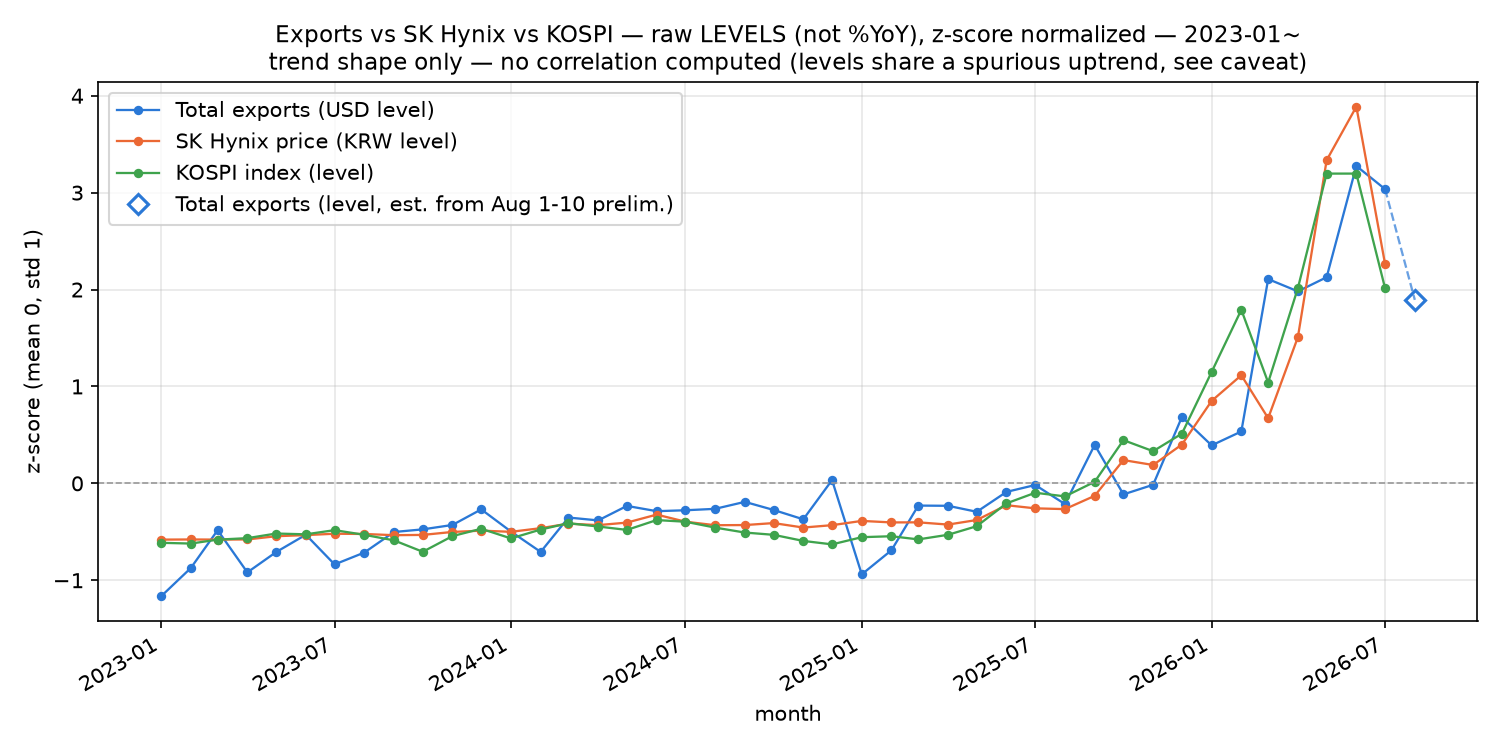
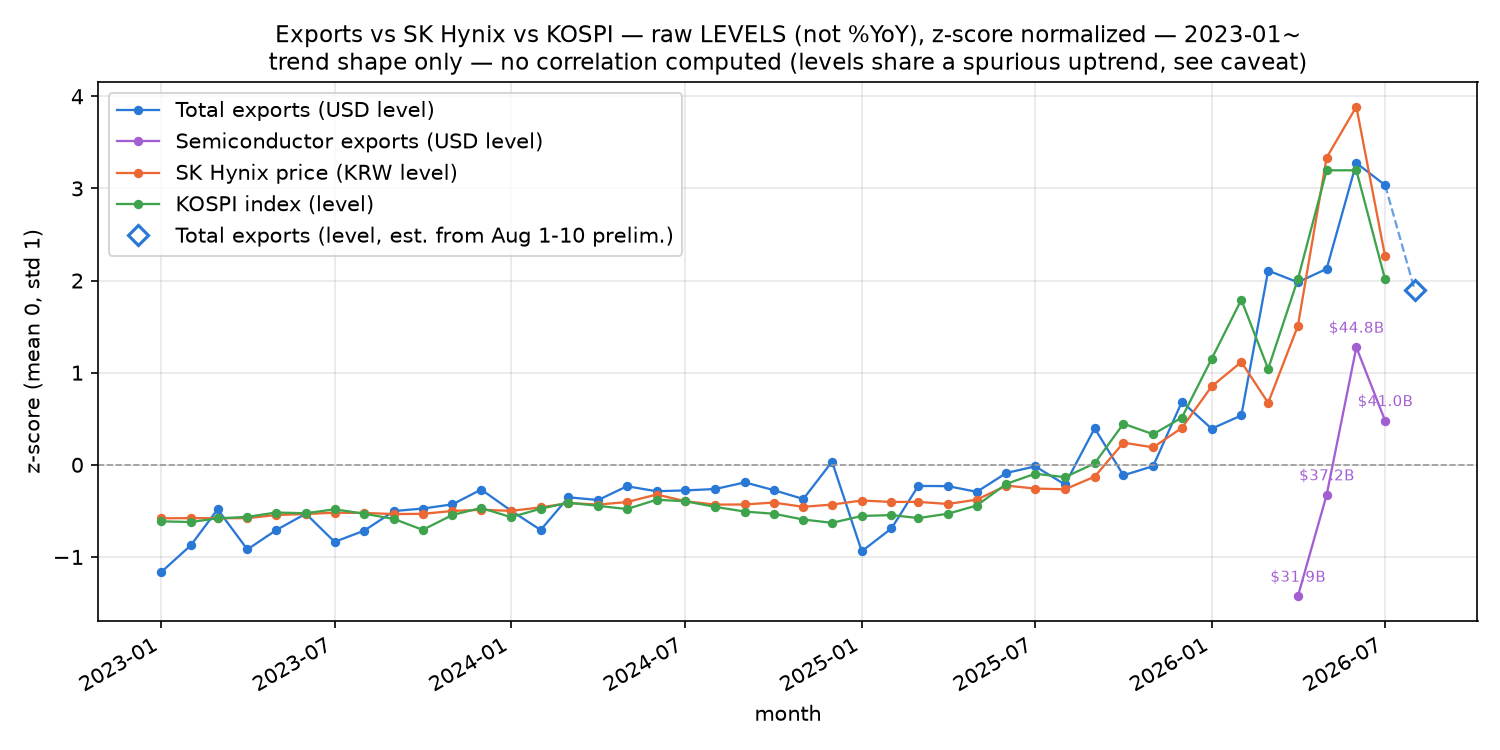
feat: 반도체수출 레벨(달러)을 레벨 트렌드 차트에 추가
사용자 요청 — "이 그래프가 보기에 좋은데, YoY를 거꾸로 역산해서 RAW
level로 그려줄 수 있어?"

실제로는 %YoY를 역산할 필요가 없었다 — data/manual_inputs/exports.yaml의
semiconductor_exports_yoy 각 행 주석에 이미 산업통상부가 같은 보도자료에서
함께 발표한 실측 달러 금액이 적혀 있었다(319.0/371.6/448.2/410.1억 달러,
2026-04~07). %YoY를 거꾸로 계산해 근사치를 만드는 대신 이 실측 금액을
그대로 구조화된 필드(semiconductor_exports_usd_100m)로 승격했다 — 반올림된
%YoY로 역산하는 것보다 정확하고, 애초에 진짜 "역산"이 가능하려면 전년
동월 반도체수출 레벨이 있어야 하는데 그 자동 수집 경로가 없다(관세청 API는
총계만 제공, 품목별 API는 미신청).

- _load_semi_exports_level(): exports.yaml에서 억 달러 단위를 읽어 ×1e8로
  total_exports_usd와 같은 raw USD 단위로 맞춤
- build_levels_dataset()에 semi_exports_usd 컬럼 추가, LEVELS_SERIES_LABELS
  /LEVELS_CHART_COLORS도 갱신(보라색 — %YoY 차트의 semi_exports_yoy와 동일
  색상 유지)
- 8월(진행 중인 달) 추정 레벨은 일부러 안 찍었다 — 전년 동월 반도체수출
  레벨 이력이 없어 총수출과 같은 역산 방식(전년 동월×(1+YoY%))을 쓸 근거가
  없고, 반도체는 월말 클리어런스 쏠림이 잦아 상반월 비중 투영이 특히
  왜곡될 위험이 큼(markdown에 근거 명시)
- 표본 4개월(n<6)이라 semi_exports_yoy 차트에서 이미 고친 것과 같은
  z-score 착시를 반복하지 않도록, 각 점 위에 실제 금액($XX.XB, ASCII)을
  라벨로 표기 — 처음엔 "억"(한글)로 썼다가 DejaVu Sans 글리프 누락 경고를
  보고 즉시 ASCII로 수정(이 모듈 전체의 기존 관례)

신규 테스트 2개: _load_semi_exports_level의 단위 변환 검증,
build_levels_dataset 컬럼 목록 갱신(반영 안 하면 실패하던 기존 테스트
1개도 함께 수정).

55/55 tests passing.

diff --git a/scripts/correlation_analysis.py b/scripts/correlation_analysis.py
@@ -146,6 +146,7 @@ DAILY_PRICE_CSV = REPO_ROOT / "sources" / "daily-price-history.csv"
 EXPORTS_ANNUAL_YAML = MANUAL_INPUTS / "exports_annual.yaml"
 KOSPI_ANNUAL_YAML = MANUAL_INPUTS / "kospi_annual.yaml"
 EXPORTS_PRELIMINARY_YAML = MANUAL_INPUTS / "exports_preliminary.yaml"
+EXPORTS_YAML = MANUAL_INPUTS / "exports.yaml"
 OUT_DIR = REPO_ROOT / "monitoring"
 OUT_MD = OUT_DIR / "exports-price-correlation.md"
 OUT_PNG = OUT_DIR / "exports-price-correlation.png"
@@ -178,11 +179,13 @@ OUT_PNG_LEVELS_ZOOM = OUT_DIR / "exports-price-levels-trend-2023-zoom.png"
 # 정규화 — %YoY로 바꾸지 않은 채 그냥 스케일만 맞춘다.
 LEVELS_SERIES_LABELS = {
     "total_exports_usd": "총수출 (달러, 레벨)",
+    "semi_exports_usd": "반도체수출 (달러, 레벨)",
     "hynix_price_krw": "SK하이닉스 주가 (원, 레벨)",
     "kospi_index": "코스피 지수 (포인트, 레벨)",
 }
 LEVELS_SERIES_LABELS_CHART = {
     "total_exports_usd": "Total exports (USD level)",
+    "semi_exports_usd": "Semiconductor exports (USD level)",
     "hynix_price_krw": "SK Hynix price (KRW level)",
     "kospi_index": "KOSPI index (level)",
 }
@@ -568,9 +571,20 @@ def build_daily_focus_dataset(display_days: int = DAILY_FOCUS_DISPLAY_DAYS) -> p
 # %YoY가 아니라 원 단위(달러/원/포인트) 그대로 겹쳐서 추세의 '모양'만 본다.
 # 상관계수는 절대 안 낸다 — 모듈 docstring "WHY YoY, NOT LEVELS" 참고.
 
+def _load_semi_exports_level() -> pd.Series:
+    """반도체 수출 금액(달러, 레벨) — data/manual_inputs/exports.yaml의
+    semiconductor_exports_usd_100m(억 달러)을 그대로 옮긴 것, %YoY를 역산한
+    값이 아니다(2026-08-17 사용자 요청 배경은 exports.yaml 주석 참고).
+    총수출 레벨(_load_customs_export_level)과 달리 자동 수집 경로가 없어
+    2026-04~뿐이고(n=4), _drop_current_incomplete_month() 대상도 아니다 —
+    애초에 진행 중인 달(8월) 실측값 자체가 이 파일에 없다."""
+    return _load_manual_yaml_series(EXPORTS_YAML, "semiconductor_exports_usd_100m") * 1e8
+
+
 def build_levels_dataset() -> pd.DataFrame:
     series = {
         "total_exports_usd": _load_customs_export_level(),
+        "semi_exports_usd": _load_semi_exports_level(),
         "hynix_price_krw": _load_price_level("000660"),
         "kospi_index": _load_price_level("0001"),
     }
@@ -579,7 +593,12 @@ def build_levels_dataset() -> pd.DataFrame:
     return df
 
 
-LEVELS_CHART_COLORS = {"total_exports_usd": "#2a78d6", "hynix_price_krw": "#eb6834", "kospi_index": "#3fa34d"}
+LEVELS_CHART_COLORS = {
+    "total_exports_usd": "#2a78d6",
+    "semi_exports_usd": "#a35fd1",  # %YoY 차트의 semi_exports_yoy와 같은 색 — 지표 색 일관성 유지
+    "hynix_price_krw": "#eb6834",
+    "kospi_index": "#3fa34d",
+}
 
 
 def _render_levels_chart(df: pd.DataFrame, out_path: Path, start: pd.Timestamp | None = None,
@@ -596,7 +615,13 @@ def _render_levels_chart(df: pd.DataFrame, out_path: Path, start: pd.Timestamp |
     preliminary_level: _estimate_preliminary_export_level()의 반환값 —
     total_exports_usd 실측 마지막 점에서 점선으로 이어지는 속이 빈
     마름모로, %YoY 차트의 잠정치 표시와 같은 스타일(2026-08-17 사용자
-    요청: "10일 잠정치에 대한 예상치도 같이 추가해줘")."""
+    요청: "10일 잠정치에 대한 예상치도 같이 추가해줘").
+
+    표본이 작은 지표(n < MIN_TRUSTWORTHY_N, 지금은 semi_exports_usd가
+    n=4)는 각 점 위에 실제 금액(억 달러)을 숫자로 함께 적는다 —
+    exports-price-correlation.md의 semi_exports_yoy 차트에서 이미 겪은
+    같은 종류의 z-score 착시(사용자 지적, 2026-08-17: "왜 이렇게 뚝
+    떨어지지?")를 반도체수출 레벨 차트에서도 반복하지 않기 위해서다."""
     cols = [c for c in LEVELS_SERIES_LABELS if c in df.columns and df[c].notna().any()]
     plot_df = df[cols].dropna(how="all")
     if start is not None:
@@ -617,6 +642,13 @@ def _render_levels_chart(df: pd.DataFrame, out_path: Path, start: pd.Timestamp |
                 label=LEVELS_SERIES_LABELS_CHART[c], **marker_kwargs)
         if c == "total_exports_usd":
             exports_stats = (mean, std, z.index[-1], z.values[-1])
+        if len(series) < MIN_TRUSTWORTHY_N:
+            for date, raw_val, zval in zip(series.index, series.values, z.values):
+                # ASCII만 — DejaVu Sans엔 한글 글리프가 없다(모듈 전체 관례,
+                # SERIES_LABELS_CHART 등과 같은 이유). "억" 대신 "$X.XB".
+                ax.annotate(f"${raw_val / 1e9:,.1f}B", (date, zval), textcoords="offset points",
+                            xytext=(0, 7), fontsize=7, ha="center",
+                            color=LEVELS_CHART_COLORS.get(c, "#888888"))
 
     if preliminary_level is not None and exports_stats is not None:
         mean, std, last_date, last_z = exports_stats
@@ -693,11 +725,25 @@ def render_levels_markdown(df: pd.DataFrame, preliminary_level: dict | None = No
             v = row[c]
             if pd.isna(v):
                 cells.append("—")
-            elif c == "total_exports_usd":
+            elif c in ("total_exports_usd", "semi_exports_usd"):
                 cells.append(f"{v / 1e8:,.0f}억")
             else:
                 cells.append(f"{v:,.1f}")
         lines.append(f"| {month.strftime('%Y-%m')} | " + " | ".join(cells) + " |")
+
+    if "semi_exports_usd" in df.columns and df["semi_exports_usd"].notna().any():
+        lines += [
+            "",
+            "**반도체수출(달러) 출처 참고**: 자동 수집 경로가 없다(관세청 API는 "
+            "총계만 주고, 품목별 API는 아직 미신청) — data/manual_inputs/exports.yaml에 "
+            "산업통상부 월간 보도자료 실측 금액을 직접 옮겨뒀다(2026-04~뿐, n=4). "
+            "%YoY를 거꾸로 계산해 만든 근사치가 아니라 원래 발표된 금액 그대로다. "
+            "8월(진행 중인 달)은 이 파일에 실측 월간 금액이 아직 없어 레벨 추정치를 "
+            "찍지 않았다 — 총수출과 달리 전년 동월 반도체수출 레벨 이력이 없어 "
+            "같은 방식(전년 동월×(1+YoY%))으로 역산할 근거가 없고, 반도체는 대형 "
+            "계약 클리어런스가 월말에 몰리는 경우가 많아 상반월 비중만으로 "
+            "함부로 월 전체를 투영하면 특히 왜곡될 수 있다.",
+        ]
 
     if preliminary_level is not None:
         lines += [

diff --git a/tests/test_exposure_reconciliation.py b/tests/test_exposure_reconciliation.py
@@ -1139,16 +1139,35 @@ def test_build_levels_dataset_assembles_the_three_raw_level_columns():
     """2026-08-17 user request: '절대 수치(레벨)로 트렌드를 코스피와 비교'.
     build_levels_dataset() must reuse the already-tested level loaders
     (_load_customs_export_level / _load_price_level) unmodified and just
-    assemble them into one frame — no %YoY transform, no new fetching."""
+    assemble them into one frame — no %YoY transform, no new fetching.
+
+    semi_exports_usd was added later the same day ('YoY를 거꾸로 역산해서
+    RAW level로 그려줄 수 있어?' — turned out to be real published $ amounts
+    already sitting in exports.yaml comments, not an actual YoY reversal)."""
     import scripts.correlation_analysis as mod
 
     df = mod.build_levels_dataset()
     assert list(df.columns) == [
-        "total_exports_usd", "hynix_price_krw", "kospi_index",
+        "total_exports_usd", "semi_exports_usd", "hynix_price_krw", "kospi_index",
     ]
     # real collected data should give at least some non-null history in each column
     assert df["total_exports_usd"].notna().any()
     assert df["kospi_index"].notna().any()
+
+
+def test_load_semi_exports_level_converts_100m_usd_units_to_raw_usd():
+    """2026-08-17 user request: '반도체수출 raw level'. exports.yaml stores
+    semiconductor_exports_usd_100m in 억 달러 (hundred-million-dollar) units
+    — the loader must scale by 1e8 so it's directly comparable (same raw-USD
+    units) to total_exports_usd from _load_customs_export_level()."""
+    import pandas as pd
+    import scripts.correlation_analysis as mod
+
+    series = mod._load_semi_exports_level()
+    assert not series.empty
+    # 2026-04 real published figure is 319.0억 달러 = $31.9B
+    val = series.loc[pd.Timestamp("2026-04-01")]
+    assert abs(val - 319.0 * 1e8) < 1e-6
 
 
 def test_estimate_preliminary_export_level_scales_prior_year_by_the_prelim_yoy():

diff --git a/monitoring/exports-price-levels-trend.md b/monitoring/exports-price-levels-trend.md
@@ -12,32 +12,34 @@
 
 ## 표본 데이터 (최근 24개월)
 
-| 월 | 총수출 (달러, 레벨) | SK하이닉스 주가 (원, 레벨) | 코스피 지수 (포인트, 레벨) |
-|---|---|---|---|
-| 2024-08 | 576억 | 173,700.0 | 2,674.3 |
-| 2024-09 | 585억 | 174,600.0 | 2,593.3 |
-| 2024-10 | 575억 | 186,300.0 | 2,556.2 |
-| 2024-11 | 563억 | 159,900.0 | 2,455.9 |
-| 2024-12 | 614억 | 173,900.0 | 2,399.5 |
-| 2025-01 | 492억 | 199,200.0 | 2,517.4 |
-| 2025-02 | 523억 | 190,200.0 | 2,532.8 |
-| 2025-03 | 581억 | 190,700.0 | 2,481.1 |
-| 2025-04 | 580억 | 177,500.0 | 2,556.6 |
-| 2025-05 | 573억 | 204,500.0 | 2,697.7 |
-| 2025-06 | 598억 | 292,000.0 | 3,071.7 |
-| 2025-07 | 607억 | 273,500.0 | 3,245.4 |
-| 2025-08 | 583억 | 269,000.0 | 3,186.0 |
-| 2025-09 | 659억 | 347,500.0 | 3,424.6 |
-| 2025-10 | 595억 | 559,000.0 | 4,107.5 |
-| 2025-11 | 608억 | 530,000.0 | 3,926.6 |
-| 2025-12 | 695억 | 651,000.0 | 4,214.2 |
-| 2026-01 | 658억 | 909,000.0 | 5,224.4 |
-| 2026-02 | 676억 | 1,061,000.0 | 6,244.1 |
-| 2026-03 | 873억 | 807,000.0 | 5,052.5 |
-| 2026-04 | 858억 | 1,286,000.0 | 6,598.9 |
-| 2026-05 | 876억 | 2,333,000.0 | 8,476.1 |
-| 2026-06 | 1,020억 | 2,650,000.0 | 8,476.5 |
-| 2026-07 | 990억 | 1,718,000.0 | 6,595.4 |
+| 월 | 총수출 (달러, 레벨) | 반도체수출 (달러, 레벨) | SK하이닉스 주가 (원, 레벨) | 코스피 지수 (포인트, 레벨) |
+|---|---|---|---|---|
+| 2024-08 | 576억 | — | 173,700.0 | 2,674.3 |
+| 2024-09 | 585억 | — | 174,600.0 | 2,593.3 |
+| 2024-10 | 575억 | — | 186,300.0 | 2,556.2 |
+| 2024-11 | 563억 | — | 159,900.0 | 2,455.9 |
+| 2024-12 | 614억 | — | 173,900.0 | 2,399.5 |
+| 2025-01 | 492억 | — | 199,200.0 | 2,517.4 |
+| 2025-02 | 523억 | — | 190,200.0 | 2,532.8 |
+| 2025-03 | 581억 | — | 190,700.0 | 2,481.1 |
+| 2025-04 | 580억 | — | 177,500.0 | 2,556.6 |
+| 2025-05 | 573억 | — | 204,500.0 | 2,697.7 |
+| 2025-06 | 598억 | — | 292,000.0 | 3,071.7 |
+| 2025-07 | 607억 | — | 273,500.0 | 3,245.4 |
+| 2025-08 | 583억 | — | 269,000.0 | 3,186.0 |
+| 2025-09 | 659억 | — | 347,500.0 | 3,424.6 |
+| 2025-10 | 595억 | — | 559,000.0 | 4,107.5 |
+| 2025-11 | 608억 | — | 530,000.0 | 3,926.6 |
+| 2025-12 | 695억 | — | 651,000.0 | 4,214.2 |
+| 2026-01 | 658억 | — | 909,000.0 | 5,224.4 |
+| 2026-02 | 676억 | — | 1,061,000.0 | 6,244.1 |
+| 2026-03 | 873억 | — | 807,000.0 | 5,052.5 |
+| 2026-04 | 858억 | 319억 | 1,286,000.0 | 6,598.9 |
+| 2026-05 | 876억 | 372억 | 2,333,000.0 | 8,476.1 |
+| 2026-06 | 1,020억 | 448억 | 2,650,000.0 | 8,476.5 |
+| 2026-07 | 990억 | 410억 | 1,718,000.0 | 6,595.4 |
+
+**반도체수출(달러) 출처 참고**: 자동 수집 경로가 없다(관세청 API는 총계만 주고, 품목별 API는 아직 미신청) — data/manual_inputs/exports.yaml에 산업통상부 월간 보도자료 실측 금액을 직접 옮겨뒀다(2026-04~뿐, n=4). %YoY를 거꾸로 계산해 만든 근사치가 아니라 원래 발표된 금액 그대로다. 8월(진행 중인 달)은 이 파일에 실측 월간 금액이 아직 없어 레벨 추정치를 찍지 않았다 — 총수출과 달리 전년 동월 반도체수출 레벨 이력이 없어 같은 방식(전년 동월×(1+YoY%))으로 역산할 근거가 없고, 반도체는 대형 계약 클리어런스가 월말에 몰리는 경우가 많아 상반월 비중만으로 함부로 월 전체를 투영하면 특히 왜곡될 수 있다.
 
 ## 진행 중인 달 잠정 추정 레벨 (아직 확정 아님)
 
